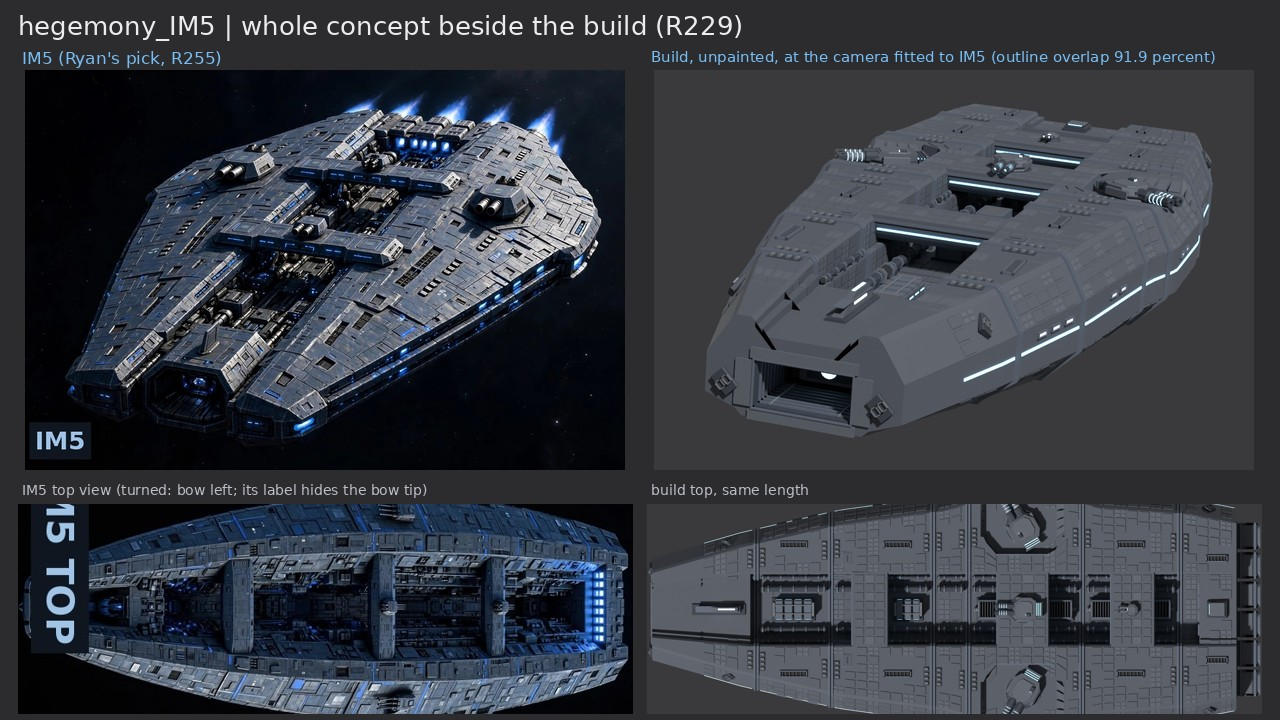
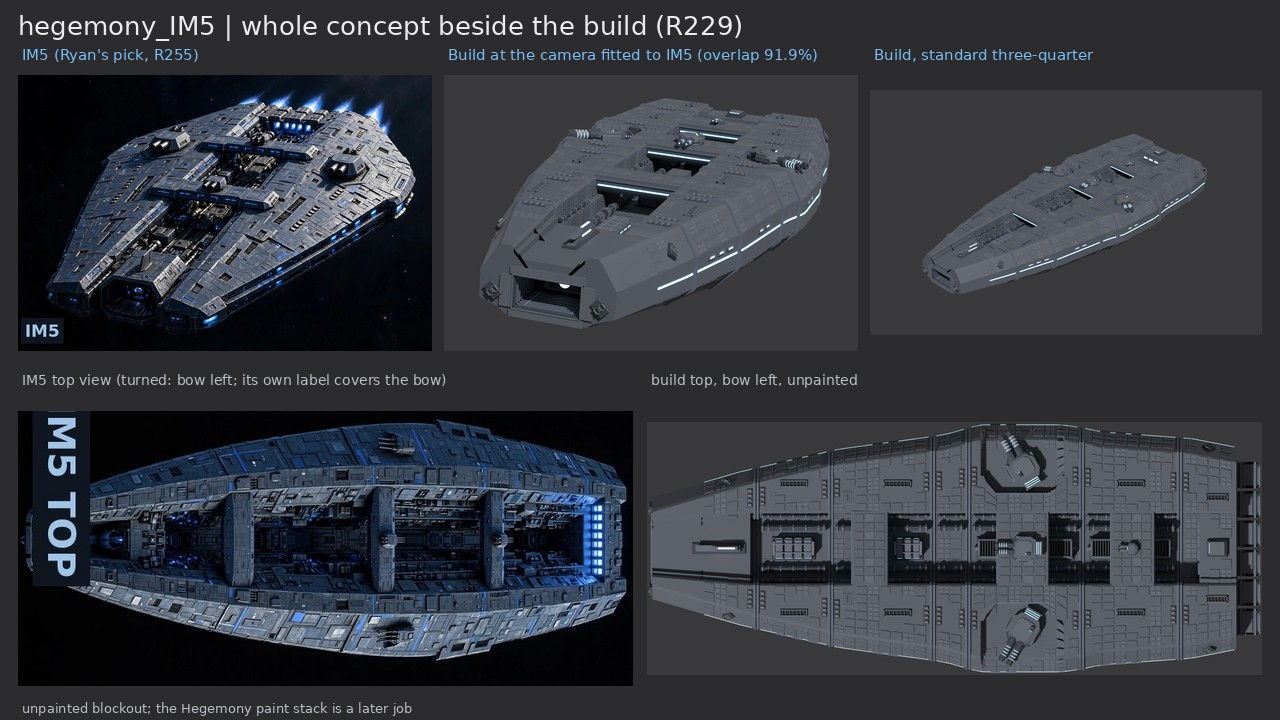
hegemony_IM5: list the coolant lines and canyon-end windows as a change, fit both top views whole in the R229 compare
Refs #768

Claude-Session: https://claude.ai/code/session_01TX7Q21s76BEf5gcGTrpJ1G

diff --git a/contrib/opus/tools/issue768/pictures.py b/contrib/opus/tools/issue768/pictures.py
@@ -55,22 +55,23 @@ for line in ('One broad wedge, an armoured canyon down its spine', 'Three low br
     d.text((856, y), '- ' + line, fill=INK, font=F(14)); y += 29
 c.save(D + '/hegemony_IM5_sheet_overview.jpg', quality=90)
 
-# 2. the whole-concept compare beside IM5 (R229): the accepted picture and the build, whole, at the fitted camera; then IM5's top
-# view over the blockout's at one length (IM5 has no side view)
+# 2. the whole-concept compare beside IM5 (R229): the accepted picture and the build, whole, at the fitted camera and at the
+# standard three-quarter; then IM5's top view beside the blockout's, each whole (IM5 has no side view)
 c = Image.new('RGB', (1280, 720), GREY); d = ImageDraw.Draw(c)
 d.text((18, 10), 'hegemony_IM5 | whole concept beside the build (R229)', fill=INK, font=F(26))
-paste(c, Image.open(C + 'IM5.jpg').convert('RGB'), 18, 70, 615, 400)
-paste(c, on_grey(R + '/beauty_cam.png'), 647, 70, 615, 400)
-d.text((22, 48), 'IM5 (Ryan\'s pick, R255)', fill=ACC, font=F(17)); d.text((651, 48), 'Build, unpainted, at the camera fitted to IM5 (outline overlap %s percent)' % IOU, fill=ACC, font=F(15))
-top = Image.open(D + '/concept_IM5_top_bow_left.jpg').convert('RGB').crop((4, 20, 716, 345))
+d.text((22, 46), 'IM5 (Ryan\'s pick, R255)', fill=ACC, font=F(15))
+d.text((448, 46), 'Build at the camera fitted to IM5 (overlap %s%%)' % IOU, fill=ACC, font=F(15))
+d.text((874, 46), 'Build, standard three-quarter', fill=ACC, font=F(15))
+paste(c, Image.open(C + 'IM5.jpg').convert('RGB'), 18, 68, 414, 290)
+paste(c, on_grey(R + '/beauty_cam.png'), 444, 68, 414, 290)
+paste(c, on_grey(R + '/threequarter.png'), 870, 68, 392, 290)
+top = Image.open(D + '/concept_IM5_top_bow_left.jpg').convert('RGB').crop((2, 30, 718, 350))
 bt = alpha_crop(R + '/top.png', 6).rotate(90, expand=True)
-W = 615
-a = top.resize((W, int(top.height * W / top.width))); b = bt.resize((W, int(bt.height * W / bt.width)))
-y = 482
-d.text((22, y), 'IM5 top view (turned: bow left; its label hides the bow tip)', fill=DIM, font=F(14)); d.text((651, y), 'build top, same length', fill=DIM, font=F(14))
-hmax = 210
-c.paste(a.crop((0, max(0, (a.height - hmax) // 2), W, max(0, (a.height - hmax) // 2) + min(hmax, a.height))), (18, y + 22))
-c.paste(b.crop((0, max(0, (b.height - hmax) // 2), W, max(0, (b.height - hmax) // 2) + min(hmax, b.height))), (647, y + 22))
+d.text((22, 372), 'IM5 top view (turned: bow left; its own label covers the bow)', fill=DIM, font=F(14))
+d.text((651, 372), 'build top, bow left, unpainted', fill=DIM, font=F(14))
+paste(c, top, 18, 394, 615, 310)
+paste(c, bt, 647, 394, 615, 310)
+d.text((22, 700), 'unpainted blockout; the Hegemony paint stack is a later job', fill=DIM, font=F(13))
 c.save(D + '/hegemony_IM5_compare_IM5.jpg', quality=90)
 
 # 3. the battle camera

diff --git a/tools/blender/build_sheets/ships/hegemony_IM5.py b/tools/blender/build_sheets/ships/hegemony_IM5.py
@@ -734,6 +734,8 @@ def build(K):
              'IM5\'s three-quarter shows the plumes across the whole stern (its notes say between the ridge roots); factions.md: a flat row of rectangular blue-white nozzles; the boss needs the thrust of the whole stern')
     K.change('The canyon floor\'s machinery is real plant with a job: two capacitor banks for the ion cannon forward, four heat exchangers for the reactor and the drives aft, two armoured power trunks along the floor, each coupled with flanges short of every module band',
              'the issue: machinery on the canyon floor is real machinery with a job (R221); IM5 shows pipes and blocks there; R226: the banks and exchangers are machines and sit whole in one module, the trunks stop at the bands')
+    K.change('Coolant lines on both canyon ledges (the exchangers\' loops out to the ridges\' plant rooms), one length per stretch between the bands and the bridges, and four blue-white control windows of the engine room on the stern deck\'s fore face, looking up the canyon',
+             'IM5 shows pipe runs along the canyon walls and a blue-lit block at the canyon\'s aft end: here the windows of the engine room that watches the plant; every part has a job (R221); the lines stop short of the bands and bridges (R226)')
     K.change('Even panel grid of two module sizes on the decks, the canyon floor and walls, the facets, the belly and the bridges; module bands as raised rings with a deep double seam round the whole section, canyon included; module latch rows on the ridge decks at the bands',
              'paint direction hegemony.md (approved Nov 14): the even grid, two module sizes, the module band as structure; R243 ("Hegemony also pretty rigid and clean"); every part has a job (R221): the latches lock the modules')
     K.change('The flanks are faceted round a vertical flank band (upper and lower facets, chamfers, a chine) carrying the blue line, broken only at the module bands',

diff --git a/docs/ship_pipeline/build_sheets/hegemony_IM5/feature_table.md b/docs/ship_pipeline/build_sheets/hegemony_IM5/feature_table.md
@@ -285,6 +285,7 @@ Written from the concept before modelling; ticked per blob-sweep cell (present, 
 - **The flak cluster (flak T) on the stern bridge is one twin picket laser turret, elevating to 60.** data.js flak T, 3 shots over 2 emitters (both fire every volley); IM5 shows a twin mount on the stern bridge; one mount, as the notes say.
 - **One flat row of six rectangular nozzle pods across the whole stern face on one datum, not only between the ridge roots.** IM5's three-quarter shows the plumes across the whole stern (its notes say between the ridge roots); factions.md: a flat row of rectangular blue-white nozzles; the boss needs the thrust of the whole stern.
 - **The canyon floor's machinery is real plant with a job: two capacitor banks for the ion cannon forward, four heat exchangers for the reactor and the drives aft, two armoured power trunks along the floor, each coupled with flanges short of every module band.** the issue: machinery on the canyon floor is real machinery with a job (R221); IM5 shows pipes and blocks there; R226: the banks and exchangers are machines and sit whole in one module, the trunks stop at the bands.
+- **Coolant lines on both canyon ledges (the exchangers' loops out to the ridges' plant rooms), one length per stretch between the bands and the bridges, and four blue-white control windows of the engine room on the stern deck's fore face, looking up the canyon.** IM5 shows pipe runs along the canyon walls and a blue-lit block at the canyon's aft end: here the windows of the engine room that watches the plant; every part has a job (R221); the lines stop short of the bands and bridges (R226).
 - **Even panel grid of two module sizes on the decks, the canyon floor and walls, the facets, the belly and the bridges; module bands as raised rings with a deep double seam round the whole section, canyon included; module latch rows on the ridge decks at the bands.** paint direction hegemony.md (approved Nov 14): the even grid, two module sizes, the module band as structure; R243 ("Hegemony also pretty rigid and clean"); every part has a job (R221): the latches lock the modules.
 - **The flanks are faceted round a vertical flank band (upper and lower facets, chamfers, a chine) carrying the blue line, broken only at the module bands.** R244, binding on every sheet ship; factions.md: "a pale wedge with a line of blue light"; the strips are the running lights (paint direction 5).
 - **Retro thrusters on the bow face, attitude thrusters on the facets, blue-white window slits, louvres, flush hatches, a stern lift head and a belly armour step added; no hangar, no drone bay, no mount for nova.** a ship in space needs thrusters and access (lore 3.4, 3.3); IM5 shows no underside; data.js h_boss has no hangar and its ability nova has no mount (the issue); every part has a job (R221).
